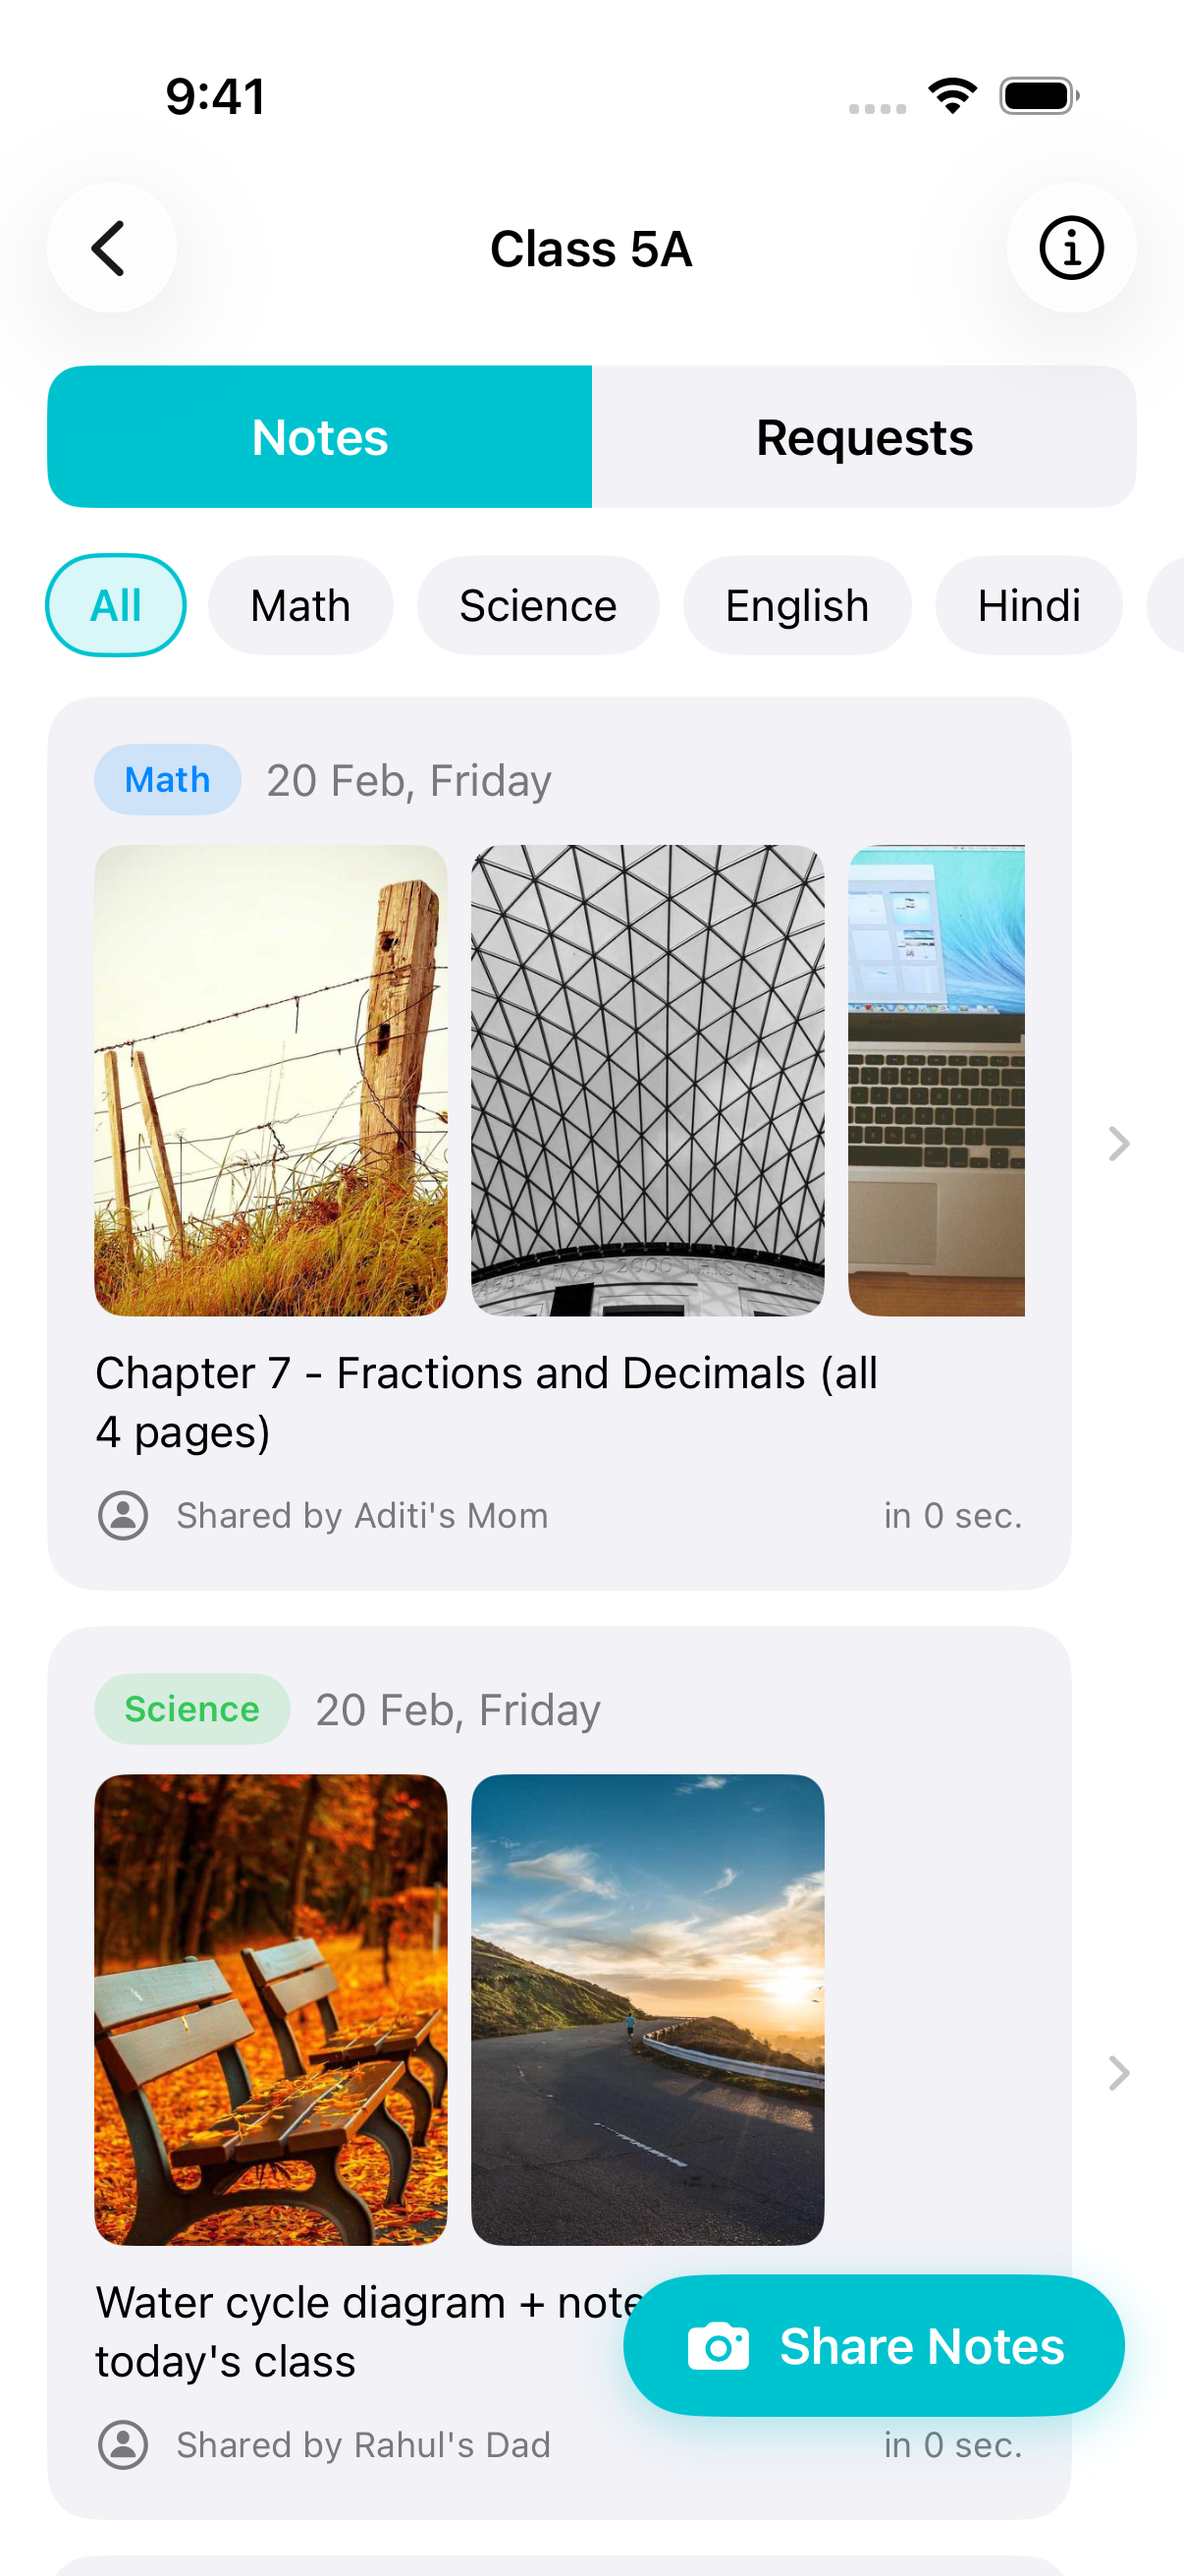
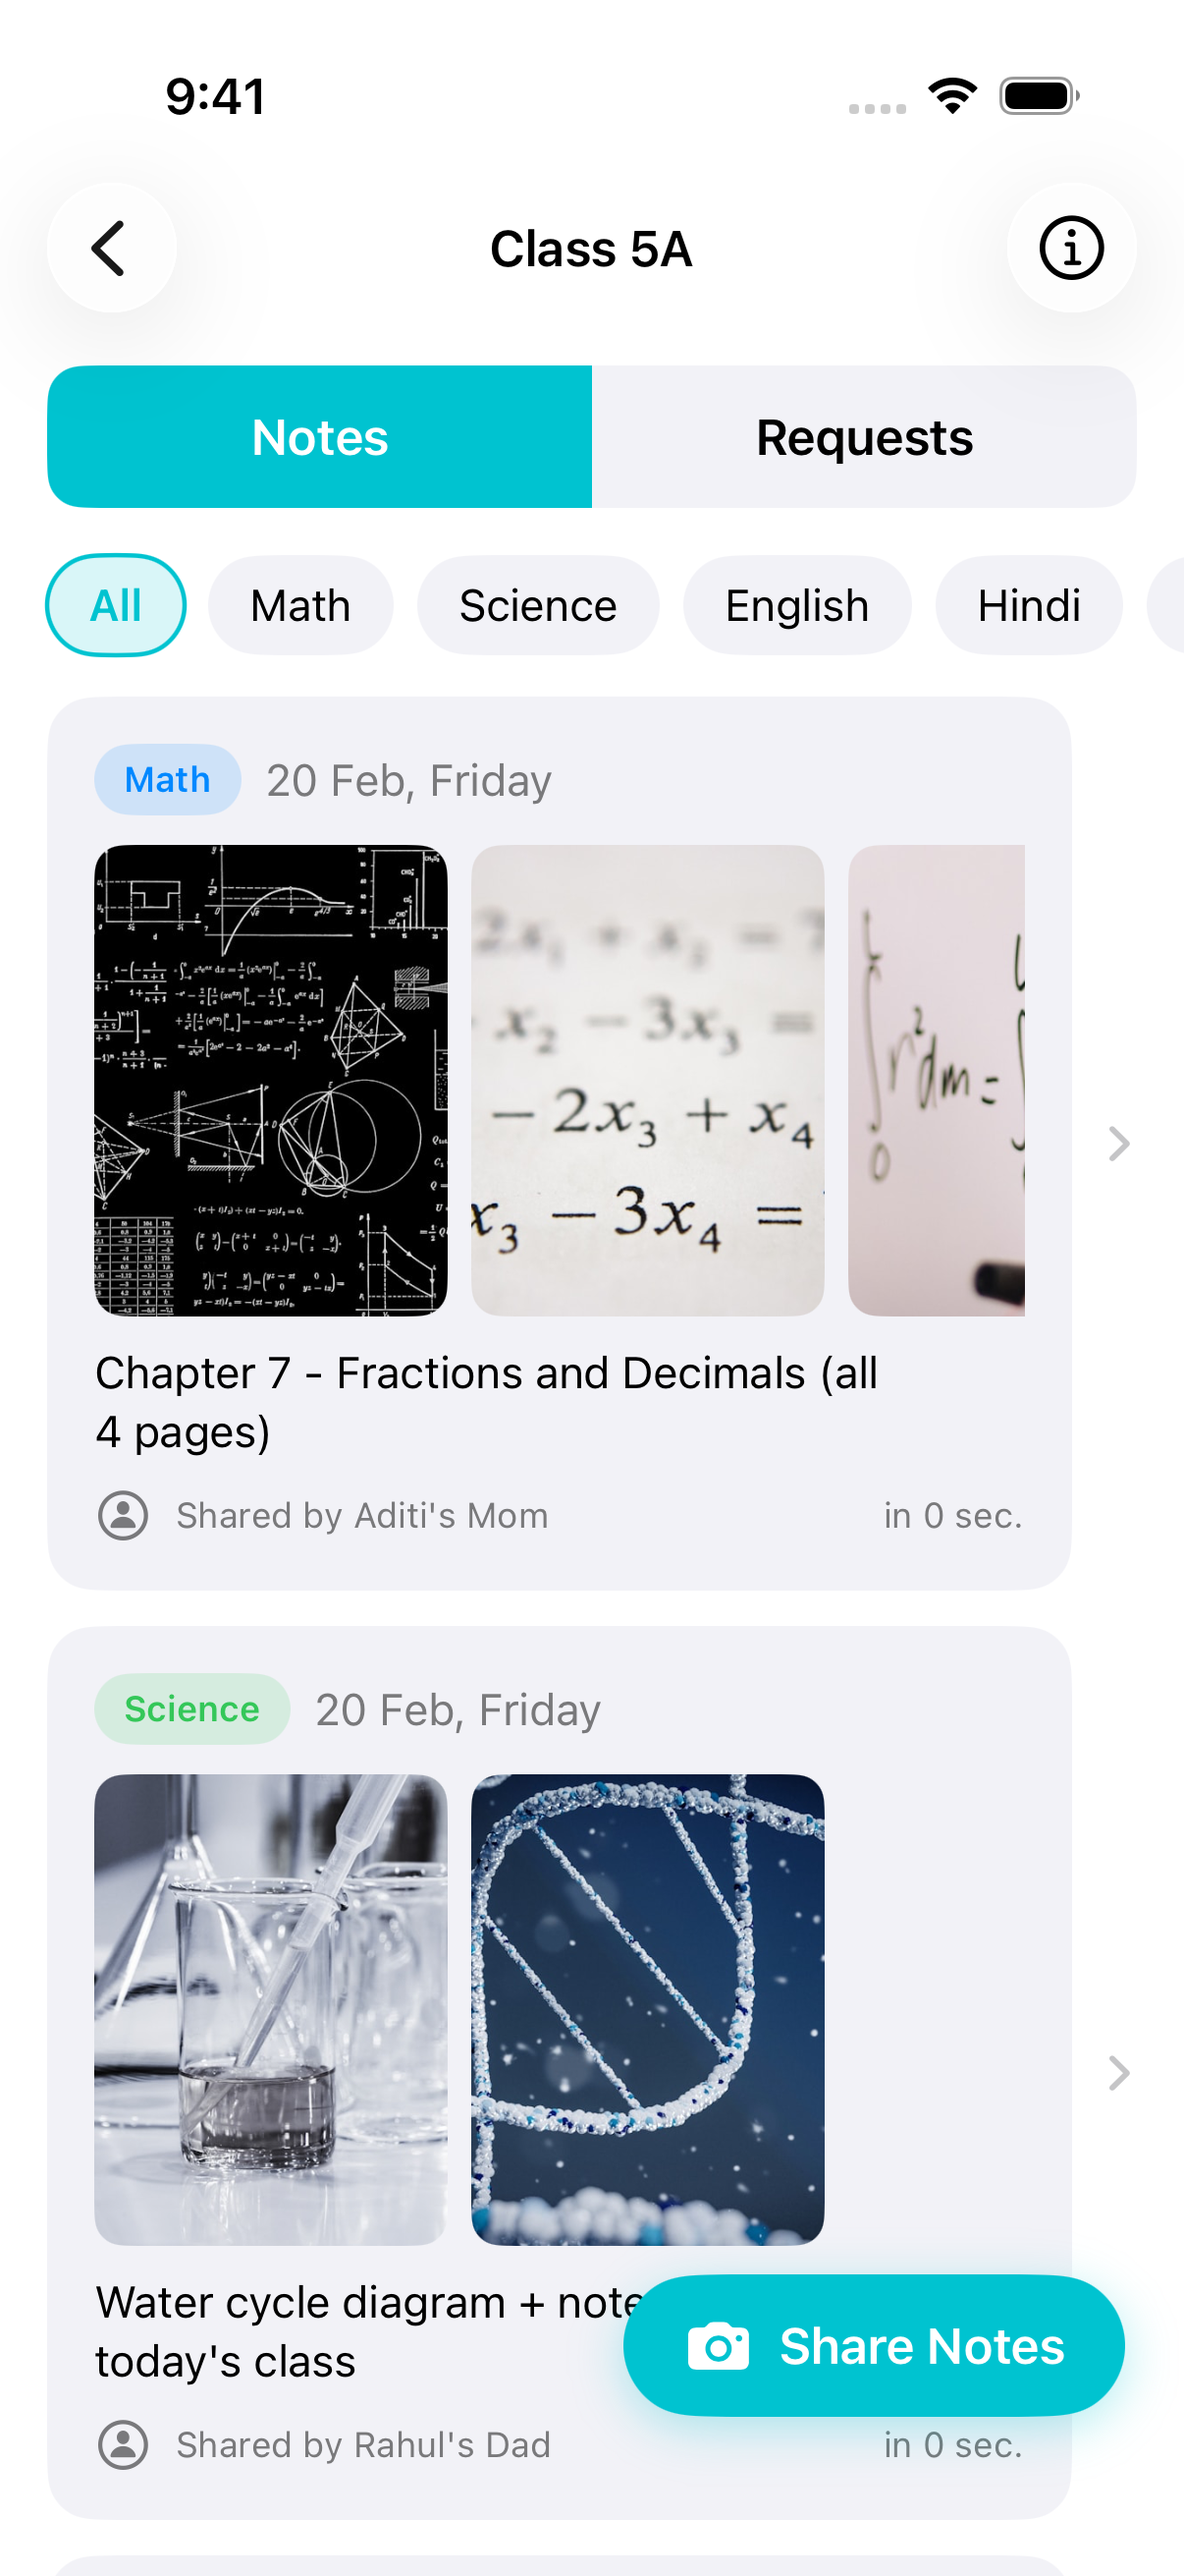
Replace placeholder images with subject-appropriate Unsplash photos
Math posts now show equations/formulas, Science shows lab/biology,
English shows writing, Social Studies shows maps, etc. Updated demo
data on both iOS and Android, refreshed screenshots and landing page.

Changed region(s): [[0.0614, 0.3089, 0.8897, 0.5252], [0.0614, 0.6796, 0.7056, 0.8959]]

diff --git a/ios/ClassNotes/Services/DemoServices.swift b/ios/ClassNotes/Services/DemoServices.swift
@@ -150,7 +150,7 @@ class DemoPostService: PostService {
         DispatchQueue.main.asyncAfter(deadline: .now() + 0.5) {
             // Generate placeholder URLs for images
             let photoURLs = images.enumerated().map { index, _ in
-                "https://picsum.photos/seed/\(UUID().uuidString)/400/600"
+                "https://images.unsplash.com/photo-\(UUID().uuidString)?w=400&h=600&fit=crop"
             }
 
             let post = Post(
@@ -161,7 +161,7 @@ class DemoPostService: PostService {
                 subjectName: subjectName,
                 date: date,
                 description: description,
-                photoURLs: photoURLs.isEmpty ? ["https://picsum.photos/seed/demo/400/600"] : photoURLs
+                photoURLs: photoURLs.isEmpty ? ["https://images.unsplash.com/photo-demo?w=400&h=600&fit=crop"] : photoURLs
             )
             self.posts.insert(post, at: 0)
             completion(.success(post))
@@ -210,7 +210,7 @@ class DemoPostService: PostService {
     override func addPhotos(to postId: String, images: [UIImage], completion: @escaping (Result<Void, Error>) -> Void) {
         DispatchQueue.main.asyncAfter(deadline: .now() + 0.5) {
             if let index = self.posts.firstIndex(where: { $0.id == postId }) {
-                let newURLs = images.map { _ in "https://picsum.photos/seed/\(UUID().uuidString)/400/600" }
+                let newURLs = images.map { _ in "https://images.unsplash.com/photo-\(UUID().uuidString)?w=400&h=600&fit=crop" }
                 self.posts[index].photoURLs.append(contentsOf: newURLs)
             }
             completion(.success(()))
@@ -267,8 +267,8 @@ class DemoRequestService: RequestService {
         DispatchQueue.main.asyncAfter(deadline: .now() + 0.5) {
             if let index = self.requests.firstIndex(where: { $0.id == requestId }) {
                 let photoURLs = images.isEmpty
-                    ? ["https://picsum.photos/seed/resp/400/600"]
-                    : images.map { _ in "https://picsum.photos/seed/\(UUID().uuidString)/400/600" }
+                    ? ["https://images.unsplash.com/photo-resp?w=400&h=600&fit=crop"]
+                    : images.map { _ in "https://images.unsplash.com/photo-\(UUID().uuidString)?w=400&h=600&fit=crop" }
 
                 let response = RequestResponse(
                     authorId: authorId,
@@ -339,10 +339,10 @@ enum DemoData {
             date: Calendar.current.date(byAdding: .day, value: -1, to: Date()) ?? Date(),
             description: "Chapter 7 - Fractions and Decimals (all 4 pages)",
             photoURLs: [
-                "https://picsum.photos/seed/math1/400/600",
-                "https://picsum.photos/seed/math2/400/600",
-                "https://picsum.photos/seed/math3/400/600",
-                "https://picsum.photos/seed/math4/400/600",
+                "https://images.unsplash.com/photo-1635070041078-e363dbe005cb?w=400&h=600&fit=crop",
+                "https://images.unsplash.com/photo-1509228468518-180dd4864904?w=400&h=600&fit=crop",
+                "https://images.unsplash.com/photo-1596495577886-d920f1fb7238?w=400&h=600&fit=crop",
+                "https://images.unsplash.com/photo-1509228627152-72ae9ae6848d?w=400&h=600&fit=crop",
             ]
         ),
         Post(
@@ -354,8 +354,8 @@ enum DemoData {
             date: Calendar.current.date(byAdding: .day, value: -1, to: Date()) ?? Date(),
             description: "Water cycle diagram + notes from today's class",
             photoURLs: [
-                "https://picsum.photos/seed/sci1/400/600",
-                "https://picsum.photos/seed/sci2/400/600",
+                "https://images.unsplash.com/photo-1532094349884-543bc11b234d?w=400&h=600&fit=crop",
+                "https://images.unsplash.com/photo-1628595351029-c2bf17511435?w=400&h=600&fit=crop",
             ]
         ),
         Post(
@@ -367,7 +367,7 @@ enum DemoData {
             date: Date(),
             description: "Grammar - Tenses worksheet",
             photoURLs: [
-                "https://picsum.photos/seed/eng1/400/600",
+                "https://images.unsplash.com/photo-1455390582262-044cdead277a?w=400&h=600&fit=crop",
             ]
         ),
         Post(
@@ -379,8 +379,8 @@ enum DemoData {
             date: Calendar.current.date(byAdding: .day, value: -2, to: Date()) ?? Date(),
             description: "Hindi essay topic and reference notes",
             photoURLs: [
-                "https://picsum.photos/seed/hindi1/400/600",
-                "https://picsum.photos/seed/hindi2/400/600",
+                "https://images.unsplash.com/photo-1434030216411-0b793f4b4173?w=400&h=600&fit=crop",
+                "https://images.unsplash.com/photo-1456513080510-7bf3a84b82f8?w=400&h=600&fit=crop",
             ]
         ),
         Post(
@@ -392,7 +392,7 @@ enum DemoData {
             date: Calendar.current.date(byAdding: .day, value: -3, to: Date()) ?? Date(),
             description: "History - Mughal Empire timeline",
             photoURLs: [
-                "https://picsum.photos/seed/ss1/400/600",
+                "https://images.unsplash.com/photo-1524661135-423995f22d0b?w=400&h=600&fit=crop",
             ]
         ),
         Post(
@@ -404,8 +404,8 @@ enum DemoData {
             date: Date(),
             description: "Geometry homework - angles worksheet",
             photoURLs: [
-                "https://picsum.photos/seed/geo1/400/600",
-                "https://picsum.photos/seed/geo2/400/600",
+                "https://images.unsplash.com/photo-1453733190371-0a9bedd82893?w=400&h=600&fit=crop",
+                "https://images.unsplash.com/photo-1471107340929-a87cd0f5b5f3?w=400&h=600&fit=crop",
             ]
         ),
     ]
@@ -434,7 +434,7 @@ enum DemoData {
                     id: "demo-resp-1",
                     authorId: "demo-user-2",
                     authorName: "Aditi's Mom",
-                    photoURLs: ["https://picsum.photos/seed/resp1/400/600"]
+                    photoURLs: ["https://images.unsplash.com/photo-1509228627152-72ae9ae6848d?w=400&h=600&fit=crop"]
                 )
             ]
         ),

diff --git a/android/app/src/main/java/com/classnotes/app/service/demo/DemoData.kt b/android/app/src/main/java/com/classnotes/app/service/demo/DemoData.kt
@@ -57,10 +57,10 @@ object DemoData {
             date = daysAgo(1),
             description = "Chapter 7 - Fractions and Decimals (all 4 pages)",
             photoURLs = listOf(
-                "https://picsum.photos/seed/math1/400/600",
-                "https://picsum.photos/seed/math2/400/600",
-                "https://picsum.photos/seed/math3/400/600",
-                "https://picsum.photos/seed/math4/400/600",
+                "https://images.unsplash.com/photo-1635070041078-e363dbe005cb?w=400&h=600&fit=crop",
+                "https://images.unsplash.com/photo-1509228468518-180dd4864904?w=400&h=600&fit=crop",
+                "https://images.unsplash.com/photo-1596495577886-d920f1fb7238?w=400&h=600&fit=crop",
+                "https://images.unsplash.com/photo-1509228627152-72ae9ae6848d?w=400&h=600&fit=crop",
             )
         ),
         Post(
@@ -72,8 +72,8 @@ object DemoData {
             date = daysAgo(1),
             description = "Water cycle diagram + notes from today's class",
             photoURLs = listOf(
-                "https://picsum.photos/seed/sci1/400/600",
-                "https://picsum.photos/seed/sci2/400/600",
+                "https://images.unsplash.com/photo-1532094349884-543bc11b234d?w=400&h=600&fit=crop",
+                "https://images.unsplash.com/photo-1628595351029-c2bf17511435?w=400&h=600&fit=crop",
             )
         ),
         Post(
@@ -85,7 +85,7 @@ object DemoData {
             date = Date(),
             description = "Grammar - Tenses worksheet",
             photoURLs = listOf(
-                "https://picsum.photos/seed/eng1/400/600",
+                "https://images.unsplash.com/photo-1455390582262-044cdead277a?w=400&h=600&fit=crop",
             )
         ),
         Post(
@@ -97,8 +97,8 @@ object DemoData {
             date = daysAgo(2),
             description = "Hindi essay topic and reference notes",
             photoURLs = listOf(
-                "https://picsum.photos/seed/hindi1/400/600",
-                "https://picsum.photos/seed/hindi2/400/600",
+                "https://images.unsplash.com/photo-1434030216411-0b793f4b4173?w=400&h=600&fit=crop",
+                "https://images.unsplash.com/photo-1456513080510-7bf3a84b82f8?w=400&h=600&fit=crop",
             )
         ),
         Post(
@@ -110,7 +110,7 @@ object DemoData {
             date = daysAgo(3),
             description = "History - Mughal Empire timeline",
             photoURLs = listOf(
-                "https://picsum.photos/seed/ss1/400/600",
+                "https://images.unsplash.com/photo-1524661135-423995f22d0b?w=400&h=600&fit=crop",
             )
         ),
         Post(
@@ -122,8 +122,8 @@ object DemoData {
             date = Date(),
             description = "Geometry homework - angles worksheet",
             photoURLs = listOf(
-                "https://picsum.photos/seed/geo1/400/600",
-                "https://picsum.photos/seed/geo2/400/600",
+                "https://images.unsplash.com/photo-1453733190371-0a9bedd82893?w=400&h=600&fit=crop",
+                "https://images.unsplash.com/photo-1471107340929-a87cd0f5b5f3?w=400&h=600&fit=crop",
             )
         ),
     )
@@ -152,7 +152,7 @@ object DemoData {
                     id = "demo-resp-1",
                     authorId = "demo-user-2",
                     authorName = "Aditi's Mom",
-                    photoURLs = listOf("https://picsum.photos/seed/resp1/400/600")
+                    photoURLs = listOf("https://images.unsplash.com/photo-1509228627152-72ae9ae6848d?w=400&h=600&fit=crop")
                 )
             )
         ),

diff --git a/android/app/src/main/java/com/classnotes/app/service/demo/DemoPostService.kt b/android/app/src/main/java/com/classnotes/app/service/demo/DemoPostService.kt
@@ -25,9 +25,9 @@ class DemoPostService : PostService() {
     ): Post {
         delay(500)
         val photoURLs = if (imageUris.isEmpty()) {
-            listOf("https://picsum.photos/seed/demo/400/600")
+            listOf("https://images.unsplash.com/photo-demo?w=400&h=600&fit=crop")
         } else {
-            imageUris.map { "https://picsum.photos/seed/${UUID.randomUUID()}/400/600" }
+            imageUris.map { "https://images.unsplash.com/photo-${UUID.randomUUID()}?w=400&h=600&fit=crop" }
         }
 
         val post = Post(
@@ -93,7 +93,7 @@ class DemoPostService : PostService() {
         val current = _posts.value.toMutableList()
         val index = current.indexOfFirst { it.id == postId }
         if (index >= 0) {
-            val newURLs = imageUris.map { "https://picsum.photos/seed/${UUID.randomUUID()}/400/600" }
+            val newURLs = imageUris.map { "https://images.unsplash.com/photo-${UUID.randomUUID()}?w=400&h=600&fit=crop" }
             current[index] = current[index].copy(photoURLs = current[index].photoURLs + newURLs)
             _posts.value = current
         }

diff --git a/android/app/src/main/java/com/classnotes/app/service/demo/DemoRequestService.kt b/android/app/src/main/java/com/classnotes/app/service/demo/DemoRequestService.kt
@@ -53,9 +53,9 @@ class DemoRequestService : RequestService() {
         val index = current.indexOfFirst { it.id == requestId }
         if (index >= 0) {
             val photoURLs = if (imageUris.isEmpty()) {
-                listOf("https://picsum.photos/seed/resp/400/600")
+                listOf("https://images.unsplash.com/photo-resp?w=400&h=600&fit=crop")
             } else {
-                imageUris.map { "https://picsum.photos/seed/${UUID.randomUUID()}/400/600" }
+                imageUris.map { "https://images.unsplash.com/photo-${UUID.randomUUID()}?w=400&h=600&fit=crop" }
             }
 
             val response = RequestResponse(

diff --git a/android/app/src/test/java/com/classnotes/app/service/demo/DemoDataTest.kt b/android/app/src/test/java/com/classnotes/app/service/demo/DemoDataTest.kt
@@ -113,10 +113,10 @@ class DemoDataTest {
     }
 
     @Test
-    fun `all posts have photo URLs pointing to picsum`() {
+    fun `all posts have photo URLs pointing to unsplash`() {
         DemoData.posts.forEach { post ->
             post.photoURLs.forEach { url ->
-                assertTrue("URL should be picsum: $url", url.startsWith("https://picsum.photos/"))
+                assertTrue("URL should be unsplash: $url", url.startsWith("https://images.unsplash.com/"))
             }
         }
     }

diff --git a/android/app/src/test/java/com/classnotes/app/service/demo/DemoPostServiceTest.kt b/android/app/src/test/java/com/classnotes/app/service/demo/DemoPostServiceTest.kt
@@ -84,7 +84,7 @@ class DemoPostServiceTest {
         )
 
         assertEquals(2, post.photoURLs.size)
-        assertTrue(post.photoURLs.all { it.startsWith("https://picsum.photos/") })
+        assertTrue(post.photoURLs.all { it.startsWith("https://images.unsplash.com/") })
     }
 
     @Test
